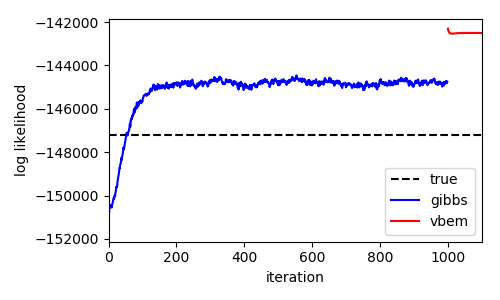
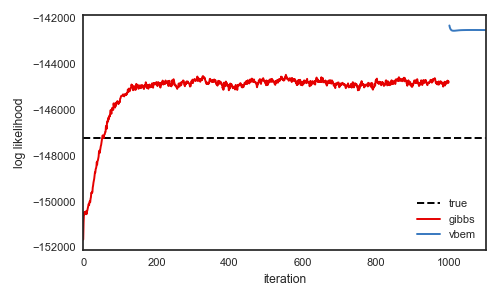
update readme

Changed region(s): [[0.03, 0.03, 0.99, 0.96], [0.24, 0.24, 0.9, 0.36], [0.15, 0.87, 0.18, 0.9]]

diff --git a/README.md b/README.md
@@ -53,6 +53,13 @@ git clone git@github.com:mattjj/pyslds.git
 pip install -e pyslds
 ```
 
+For stylish plots:
+```
+conda install seaborn
+git clone git@github.com:mattjj/hips-lib.git
+pip install -e hips-lib
+```
+
 # Background
 Switching linear dynamical systems (SLDS) are powerful
 models for approximating nonlinear dynamical systems. The basic idea
